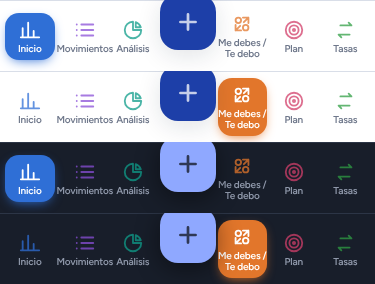
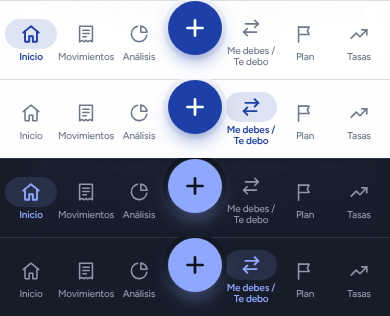
Actualiza la app (v34): corrige datos de ejemplo y barra inferior minimalista
Claude-Session: https://claude.ai/code/session_016eEKr5AV81AkUUWj8yiqi4

diff --git a/app/index.html b/app/index.html
@@ -262,12 +262,15 @@ p { margin: 0; }
 
 nav.tabs { position: fixed; left: 0; right: 0; bottom: 0; background: var(--surface); border-top: 1px solid var(--line); padding: 6px 12px calc(6px + env(safe-area-inset-bottom, 0px)); display: grid; grid-template-columns: 1fr 1fr 1fr 58px 1fr 1fr 1fr; padding-left: 4px; padding-right: 4px; align-items: center; z-index: 5; }
 nav.tabs button { border: 0; background: none; display: grid; justify-items: center; gap: 2px; font-size: 10px; letter-spacing: -.02em; white-space: normal; text-align: center; line-height: 1.1; min-width: 0; font-weight: 600; color: var(--ink-3); padding: 6px 0; }
-nav.tabs button svg { width: 22px; height: 22px; }
-nav.tabs button { border-radius: 14px; margin: 0 1px; transition: background .2s, color .2s; }
-nav.tabs button svg { color: var(--tc); opacity: .75; }
-nav.tabs button[aria-current="page"] { color: #fff; background: var(--tc); box-shadow: 0 4px 12px -4px var(--tc); }
-nav.tabs button[aria-current="page"] svg { color: #fff; opacity: 1; }
-nav.tabs .fab { width: 56px; height: 56px; border-radius: 18px; background: var(--accent); color: var(--accent-ink); justify-self: center; display: grid; place-items: center; transform: translateY(-14px); box-shadow: var(--shadow); padding: 0; }
+nav.tabs button svg { width: 22px; height: 22px; display: block; }
+nav.tabs { backdrop-filter: saturate(1.4) blur(14px); -webkit-backdrop-filter: saturate(1.4) blur(14px); background: color-mix(in srgb, var(--surface) 88%, transparent); }
+nav.tabs .ti { display: grid; place-items: center; width: 52px; height: 30px; border-radius: 15px; transition: background .2s ease, color .2s ease; }
+nav.tabs .tl { font-weight: 500; }
+nav.tabs button[aria-current="page"] { color: var(--accent); }
+nav.tabs button[aria-current="page"] .ti { background: color-mix(in srgb, var(--accent) 14%, transparent); }
+nav.tabs button[aria-current="page"] .tl { font-weight: 700; }
+nav.tabs button[aria-current="page"] svg { stroke-width: 2.1; }
+nav.tabs .fab { width: 54px; height: 54px; border-radius: 50%; border: 0; background: var(--accent); color: var(--accent-ink); justify-self: center; display: grid; place-items: center; transform: translateY(-12px); box-shadow: 0 8px 20px -6px color-mix(in srgb, var(--accent) 70%, transparent), 0 0 0 5px var(--bg); padding: 0; }
 nav.tabs .fab svg { width: 26px; height: 26px; }
 
 .scrim { position: fixed; inset: 0; background: rgba(10, 14, 24, .45); z-index: 10; display: flex; align-items: flex-end; justify-content: center; }
@@ -567,7 +570,9 @@ function demoData() {
   });
   return out;
 }
-const isDemo = () => S.loaded && S.tx.length === 0 && !S.demoHidden;
+// El ejemplo solo se ve antes de empezar: en cuanto anotas tu saldo inicial, tu ahorro o terminas la bienvenida, ves solo lo tuyo.
+const hasOwnStart = () => { const c = S.cfg || {}; return !!(c.user || (c.opening && +c.opening.amount) || (c.openingSave && +(c.openingSave.amount ?? c.openingSave))); };
+const isDemo = () => S.loaded && S.tx.length === 0 && !S.demoHidden && !hasOwnStart();
 const data = () => isDemo() ? demoData() : S.tx;
 
 // ---------- Guardado ----------
@@ -1228,15 +1233,14 @@ document.addEventListener('keydown', e => { if (e.key === 'Enter' && e.target.cl
 
 // ---------- Vistas ----------
 const TABS = [
-  ['inicio', () => T('Inicio', 'Home'), '<path d="M4 20V10M10 20V4M16 20v-7M22 20H2"/>'],
-  ['movs', () => T('Movimientos', 'Entries'), '<path d="M8 6h13M8 12h13M8 18h13M3 6h.01M3 12h.01M3 18h.01"/>'],
-  ['fin', () => T('Análisis', 'Insights'), '<path d="M21 12A9 9 0 1 1 12 3v9z"/><path d="M15 3.5A9 9 0 0 1 20.5 9H15z"/>'],
+  ['inicio', () => T('Inicio', 'Home'), '<path d="M3.5 10.5 12 3.5l8.5 7"/><path d="M5.5 9v10.5a1 1 0 0 0 1 1H10v-6h4v6h3.5a1 1 0 0 0 1-1V9"/>'],
+  ['movs', () => T('Movimientos', 'Entries'), '<path d="M5 3.5h14v17l-2.5-1.5-2.5 1.5-2-1.5-2 1.5-2.5-1.5L5 20.5z"/><path d="M8.5 8h7M8.5 11.5h7M8.5 15h4"/>'],
+  ['fin', () => T('Análisis', 'Insights'), '<path d="M20.5 13.5A8.5 8.5 0 1 1 10.5 3.5"/><path d="M14 3.2a8.5 8.5 0 0 1 6.8 6.8H14z"/>'],
   ['add'],
-  ['deudas', () => T('Me debes / Te debo', 'Loans'), '<circle cx="8" cy="8" r="3"/><circle cx="16" cy="16" r="3"/><path d="M13 5h6v6M19 5l-5 5M11 19H5v-6M5 19l5-5"/>'],
-  ['plan', () => T('Plan', 'Plan'), '<circle cx="12" cy="12" r="9"/><circle cx="12" cy="12" r="5"/><circle cx="12" cy="12" r="1.2"/>'],
-  ['tasas', () => T('Tasas', 'Rates'), '<path d="M7 7h12l-3-3M17 17H5l3 3"/>'],
+  ['deudas', () => T('Me debes / Te debo', 'Loans'), '<path d="M16 3.5 20 7.5l-4 4"/><path d="M20 7.5H6"/><path d="M8 20.5l-4-4 4-4"/><path d="M4 16.5h14"/>'],
+  ['plan', () => T('Plan', 'Plan'), '<path d="M5 21V4"/><path d="M5 4.5h11.5l-2 4 2 4H5"/>'],
+  ['tasas', () => T('Tasas', 'Rates'), '<path d="M3.5 16.5l5.5-5.5 4 4 7.5-7.5"/><path d="M15 7.5h5.5V13"/>'],
 ];
-const TABC = { inicio: '#2f6fd6', movs: '#8a4fd8', fin: '#0f9d8a', deudas: '#e2762b', plan: '#d23f6a', tasas: '#2f9e44' };
 const PARENT = { balance: 'inicio', consejos: 'inicio', importar: 'movs', pagomovil: 'movs' };
 function render() {
   document.title = 'Cuentas Claras';
@@ -1252,7 +1256,7 @@ function render() {
   $('#tabs').setAttribute('aria-label', T('Secciones', 'Sections'));
   $('#tabs').innerHTML = TABS.map(([id, lbl, ic]) => id === 'add'
     ? `<button class="fab" id="addBtn" aria-label="${T('Agregar movimiento', 'Add entry')}"><svg viewBox="0 0 24 24" fill="none" stroke="currentColor" stroke-width="2.5" stroke-linecap="round"><path d="M12 5v14M5 12h14"/></svg></button>`
-    : `<button data-tab="${id}" style="--tc:${TABC[id]}" ${active === id ? 'aria-current="page"' : ''}><svg viewBox="0 0 24 24" fill="none" stroke="currentColor" stroke-width="2" stroke-linecap="round" stroke-linejoin="round">${ic}</svg>${lbl()}</button>`).join('');
+    : `<button data-tab="${id}" ${active === id ? 'aria-current="page"' : ''}><span class="ti"><svg viewBox="0 0 24 24" fill="none" stroke="currentColor" stroke-width="1.7" stroke-linecap="round" stroke-linejoin="round">${ic}</svg></span><span class="tl">${lbl()}</span></button>`).join('');
   const v = $('#view');
   if (!S.loaded) { v.innerHTML = `<div class="card empty">${T('Cargando tus cuentas…', 'Loading your accounts…')}</div>`; return; }
   v.innerHTML = { inicio: viewInicio, movs: viewMovs, consejos: viewConsejos, fin: viewFin, deudas: viewDeudas, importar: viewImportar, plan: viewPlan, pagomovil: viewPagoMovil, balance: viewBalance, tasas: viewTasas, ajustes: viewAjustes }[S.tab]();
@@ -1426,7 +1430,7 @@ function viewTasas() {
 // ---------- Sugerencias (solo versión de prueba) ----------
 // Se envían a un Google Form de Ricardo; él las ve en la hoja de respuestas.
 // Para conectarlo: pega aquí el id del formulario y los entry.N de cada pregunta (salen del enlace prellenado).
-const APP_VER = 'v33';
+const APP_VER = 'v34';
 const SUGG = { form: '', name: '', email: '', text: '', meta: '' };
 const TEST_BUILD = /github\.io$|^localhost$|^127\.0\.0\.1$/.test(location.hostname);
 const suggReady = () => !!(SUGG.form && SUGG.name && SUGG.email && SUGG.text);

diff --git a/app/sw.js b/app/sw.js
@@ -1,6 +1,6 @@
 // Cuentas Claras: guarda la app en el teléfono para que abra rápido y sin conexión.
 // Sube CACHE cada vez que publiques una versión nueva.
-const CACHE = 'cc-v33';
+const CACHE = 'cc-v34';
 const SHELL = ['./', './index.html', './manifest.webmanifest', './icons/cerdito-192.png', './icons/cerdito-512.png', './icons/cerdito-maskable.png', './icons/cerdito-180.png'];
 
 self.addEventListener('install', e => {
